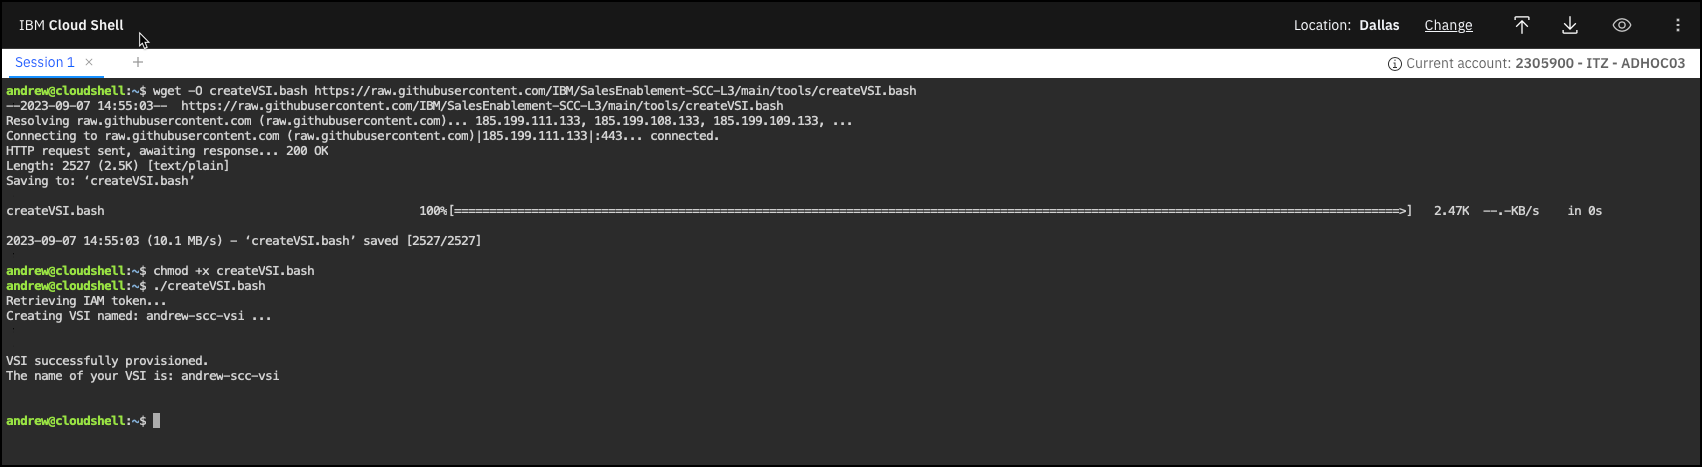
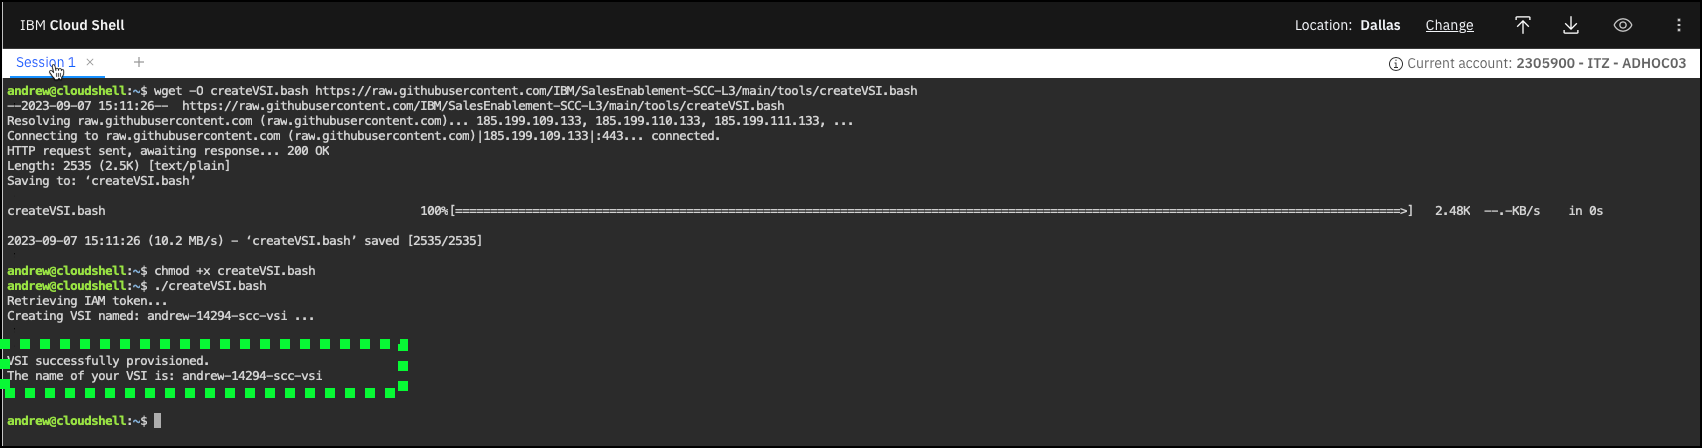
edits

Changed region(s): [[0.0, 0.0312, 1.0, 0.7188], [0.0, 0.75, 0.2491, 0.9688], [0.9342, 0.0312, 0.9653, 0.0625]]

diff --git a/docs/env/Configure the environment.md b/docs/env/Configure the environment.md
@@ -96,9 +96,11 @@ This will open a new browser window and tab with the IBM Cloud Shell. Proceed to
 
 ![](_attachments/cloudShell.png)
 
-4. Copy and paste the following commands from this guide to the IBM Cloud Shell window and press enter.
+4. Copy and paste (![](_attachments/copyAndPasteIcon.png)) the following commands from this guide to the IBM Cloud Shell window and press enter. 
 
 ```
+#
+#
 wget -O createVSI.bash {{guide.createVSIscript}}
 chmod +x createVSI.bash
 ./createVSI.bash
@@ -108,7 +110,7 @@ Example output:
 
 ![](_attachments/createVSIoutput.png)
 
-Take note of the name of the VSI just created (highlighted above). Your VSI name will be the first part of your IBM Cloud user ID (typically email address) followed by **scc-vsi**. For example: **andrew--scc-vsi**
+Take note of the name of the VSI just created (highlighted above). Your VSI name will be the first part of your IBM Cloud user ID (typically email address) followed by a random number and **-scc-vsi**. For example: **andrew-14294-scc-vsi**
 
 ### Verify the VSI was created with IP spoofing enabled
 
@@ -122,6 +124,13 @@ Return to the IBM Cloud browser window/tab.
 
 ![](_attachments/vpcOverviewVSI.png)
 
+5. Click your VSI's name in the table.
+
+![](_attachments/vpcListOfVSIs.png)
+
+6. Scroll down to the **Network interfaces** section and verify **Allow IP spoofing** is enabled.
+
+![](_attachments/vpcVSISpoofingEnabled.png)
 
 ### Create a SCC attachment and run an initial scan
 
